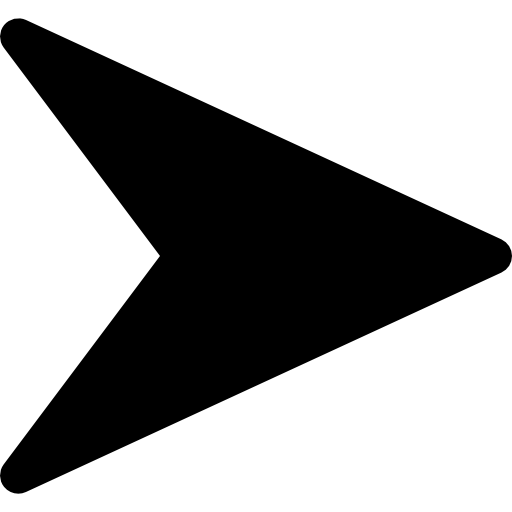
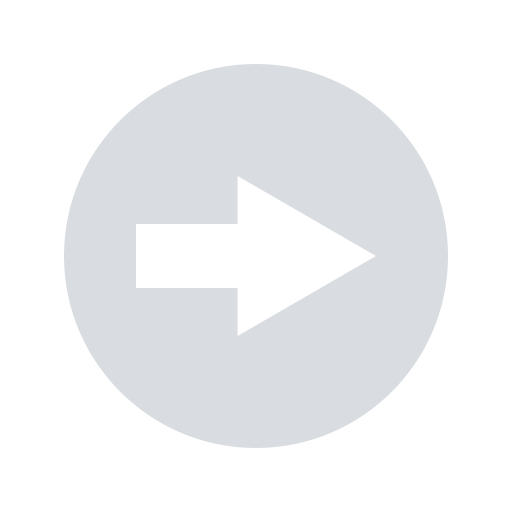
asdf

diff --git a/recipe_proj/src/main.rs b/recipe_proj/src/main.rs
@@ -110,8 +110,8 @@ impl App {
         let query = self.search.to_lowercase();
 
         let arrow_icon = image(image::Handle::from_path("assets/arrow.png"))
-            .width(Length::Fixed(24.0))
-            .height(Length::Fixed(24.0));
+            .width(Length::Fixed(48.0))
+            .height(Length::Fixed(48.0));
 
         let advanced_toggle = button(arrow_icon)
             .on_press(Message::ToggleAdvanced)
